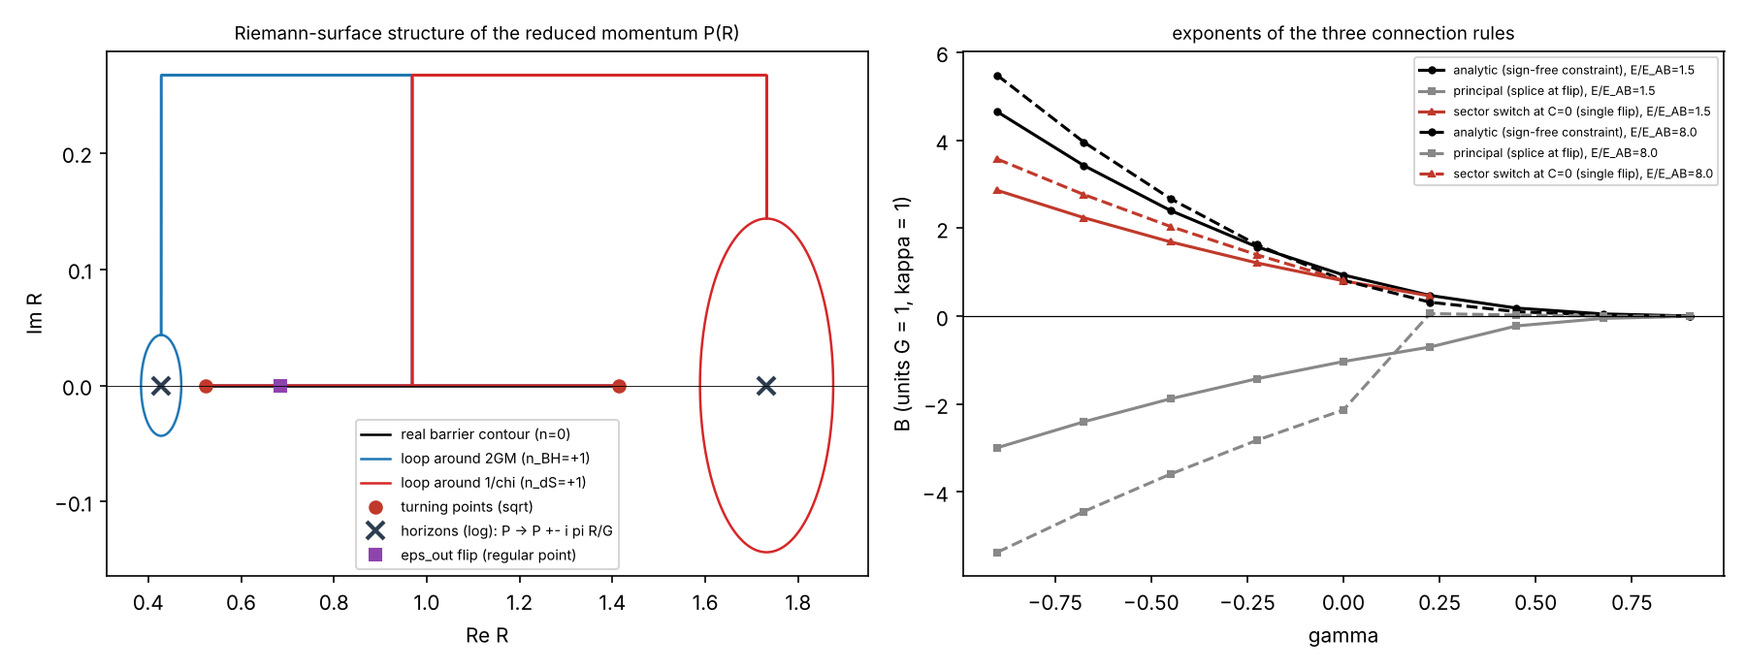
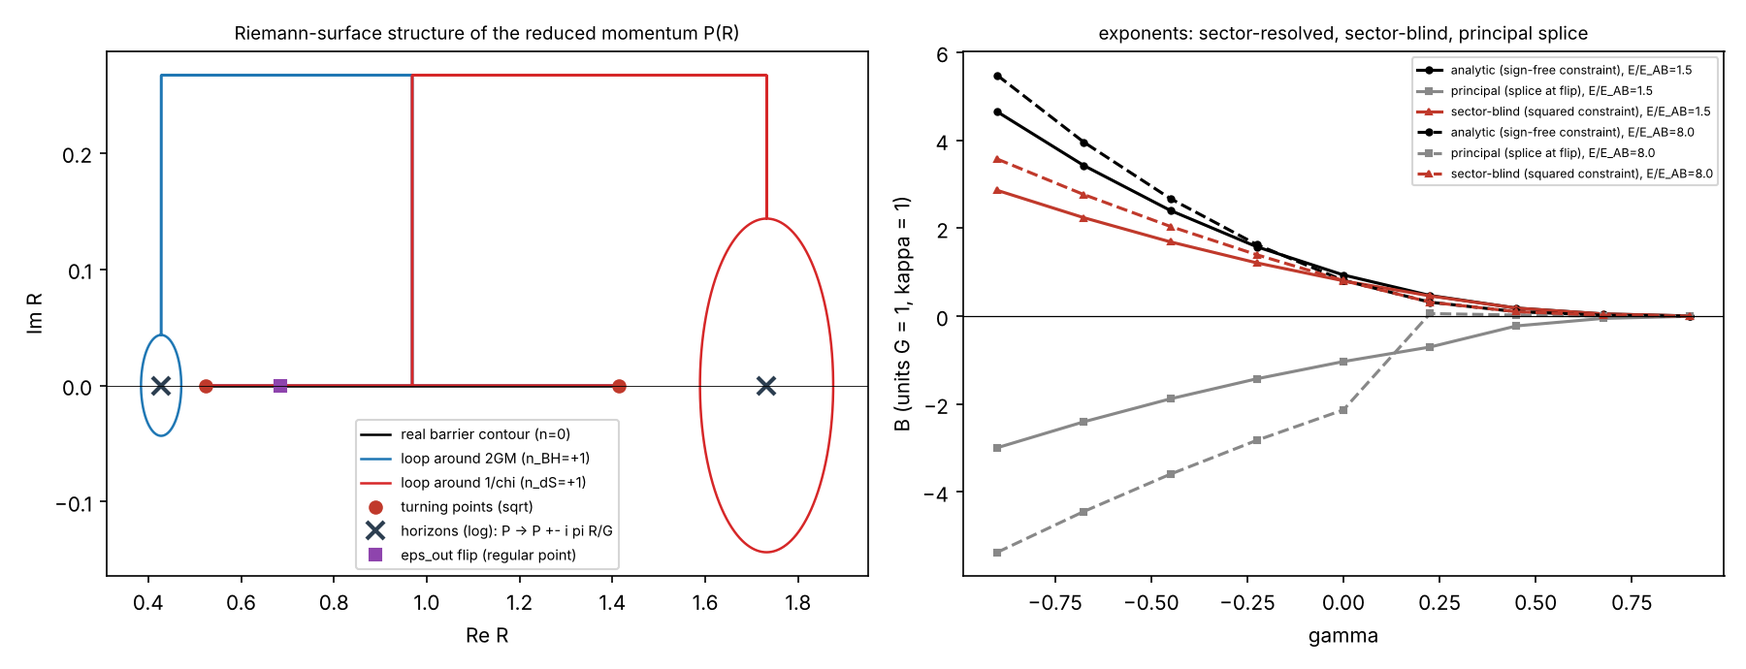
genesis Phase III: sector-blind quantization and classification
- Lemma III-9: N = f_in + f_out - kappa^2 R^2 is strictly concave, so the
  squared constraint has a coalescence point (C = 0) on the barrier iff the
  transition is single-flip
- Prop. III-8: every ordering of the squared constraint has Weber index
  nu = -1/2 at the coalescence point (Stokes multiplier sqrt 2); the
  sector-resolving product Q_-Q_+ has nu = 0. Sector-blind exponent
  B_sq = (2/G) int R arccos|C| dR
- Classification: double-flip transitions are unambiguous (B_an); single-flip
  transitions have two consistent answers (B_an vs B_sq), decided by whether
  the exterior orientation of the wall is superselected
- Weber connection coefficient checked against mpmath; 6 new tests (91)

Claude-Session: https://claude.ai/code/session_01RhEc1DaRtvQ2MeecFavkbe

Changed region(s): [[0.8089, 0.0913, 0.9644, 0.2739], [0.6222, 0.0304, 0.9022, 0.0609], [0.7778, 0.4261, 0.9644, 0.487]]

diff --git a/genesis/CODE/scripts/phase3_analysis.py b/genesis/CODE/scripts/phase3_analysis.py
@@ -65,6 +65,8 @@ for gam in np.linspace(-0.9, 0.9, 9):
         out["prescriptions"].append(dict(gamma=float(gam), E_over_EAB=fac, flip_class=C.flip_class(m),
                                          B_analytic=T.B_canonical(m), B_principal=T.B_canonical(m, "principal"),
                                          B_switch=C.B_sector_switch(m),
+                                         B_sector_blind=C.B_sector_blind(m),
+                                         n_coalescence=len(C.coalescence_points(m)),
                                          A2_over_4G=float(np.pi * m.turning_points()[-1] ** 2 / m.G)))
 pr = out["prescriptions"]
 print("prescriptions: single-flip models", sum(p["flip_class"] == "single" for p in pr),
@@ -72,6 +74,18 @@ print("prescriptions: single-flip models", sum(p["flip_class"] == "single" for p
       " B_principal<0 in", sum(p["B_principal"] < 0 for p in pr), "of", len(pr),
       " 0<B_switch<B_analytic in all single:",
       all(0 < p["B_switch"] < p["B_analytic"] for p in pr if p["flip_class"] == "single"))
+# Lemma III-9 + Prop. III-8: coalescence points and the sector-blind exponent
+single = [p for p in pr if p["flip_class"] == "single"]
+double = [p for p in pr if p["flip_class"] == "double"]
+out["sector_blind_summary"] = dict(
+    single_all_one_coalescence=all(p["n_coalescence"] == 1 for p in single),
+    double_all_no_coalescence=all(p["n_coalescence"] == 0 for p in double),
+    max_rel_Bsq_minus_Bsw_single=max(abs(p["B_sector_blind"] - p["B_switch"]) / p["B_switch"] for p in single),
+    max_rel_Bsq_minus_Ban_double=max(abs(p["B_sector_blind"] - p["B_analytic"]) / p["B_analytic"] for p in double))
+out["weber"] = [C.weber_multiplier(nu) for nu in (-1.0, -0.5, -0.25, 0.0, 1.0)]
+print("sector-blind:", out["sector_blind_summary"])
+for w in out["weber"]:
+    print(f"   Weber nu={w['nu']:+.2f}: |multiplier| measured {w['measured_abs']:.6g}, sqrt(2pi)/|Gamma(-nu)| = {w['predicted_abs']:.6g}")
 
 # 3. Lorentzian complex-time saddle: T* = dS/dM, S = int P dR along the barrier.
 #    Under the barrier P is purely imaginary, so T*_barrier = i dImS/dM and
@@ -136,13 +150,13 @@ for fac, ls in ((1.5, "-"), (8.0, "--")):
                label=f"analytic (sign-free constraint), E/E_AB={fac}")
     ax[1].plot(g, [p["B_principal"] for p in rows], color="#888888", ls=ls, marker="s", ms=3,
                label=f"principal (splice at flip), E/E_AB={fac}")
-    ax[1].plot(g, [p["B_switch"] for p in rows], color="#c0392b", ls=ls, marker="^", ms=3,
-               label=f"sector switch at C=0 (single flip), E/E_AB={fac}")
+    ax[1].plot(g, [p["B_sector_blind"] for p in rows], color="#c0392b", ls=ls, marker="^", ms=3,
+               label=f"sector-blind (squared constraint), E/E_AB={fac}")
 ax[1].axhline(0, color="k", lw=0.6)
 ax[1].set_xlabel("gamma")
 ax[1].set_ylabel("B (units G = 1, kappa = 1)")
 ax[1].legend(fontsize=6)
-ax[1].set_title("exponents of the three connection rules", fontsize=9)
+ax[1].set_title("exponents: sector-resolved, sector-blind, principal splice", fontsize=9)
 fig.tight_layout()
 fig.savefig(os.path.join(FIG, "phase3_monodromy.png"), dpi=150)
 plt.close(fig)

diff --git a/genesis/CODE/babyuniverse/contours.py b/genesis/CODE/babyuniverse/contours.py
@@ -254,3 +254,53 @@ def B_sector_switch(model: ThinWallModel) -> float:
     a = quad(lambda R: R * th(R), R1, Rq, limit=400, epsabs=1e-13, epsrel=1e-12)[0]
     b = quad(lambda R: R * (np.pi - th(R)), Rq, R2, limit=400, epsabs=1e-13, epsrel=1e-12)[0]
     return 2 * (a + b) / model.G
+
+
+# --------------------------------------- sector-blind quantization (Prop. III-8)
+def coalescence_numerator(model: ThinWallModel, R):
+    """N(R) = f_in + f_out - kappa^2 R^2 = 2 - (chi^2 + eta^2 + kappa^2) R^2 - 2GM/R,
+    strictly concave on R > 0 (Lemma III-9); C = N / (2 sqrt(f_in f_out))."""
+    R = np.asarray(R, dtype=float)
+    return 2 - (model.chi**2 + model.eta**2 + model.kappa**2) * R**2 - 2 * model.G * model.M / R
+
+
+def coalescence_points(model: ThinWallModel, n: int = 4001) -> list:
+    """Zeros of C (theta = pi/2) inside the barrier: points where the squared
+    constraint's branches theta and pi - theta coalesce."""
+    from scipy.optimize import brentq
+    R1, R2 = model.turning_points()[0], model.turning_points()[-1]
+    Rs = np.linspace(R1, R2, n)[1:-1]
+    N = coalescence_numerator(model, Rs)
+    idx = np.nonzero(np.diff(np.sign(N)) != 0)[0]
+    return [brentq(lambda r: float(coalescence_numerator(model, r)), Rs[i], Rs[i + 1], xtol=1e-15) for i in idx]
+
+
+def B_sector_blind(model: ThinWallModel) -> float:
+    """Exponent of the sector-blind (squared-constraint) quantization:
+    B_sq = (2/G) int R arccos|C| dR  (min(theta, pi - theta) on the barrier).
+    Equals B_sector_switch in the single-flip class and B_an in the double-flip class."""
+    from scipy.integrate import quad
+    R1, R2 = model.turning_points()[0], model.turning_points()[-1]
+
+    def C(R):
+        fi, fo = model.f_in(R), model.f_out(R)
+        return (fi + fo - model.kappa**2 * R**2) / (2 * np.sqrt(fi * fo))
+
+    pts = coalescence_points(model) or None
+    v = quad(lambda R: R * np.arccos(min(1.0, abs(C(R)))), R1, R2, points=pts, limit=400,
+             epsabs=1e-13, epsrel=1e-12)[0]
+    return 2 * v / model.G
+
+
+def weber_multiplier(nu: float, z: float = 30.0) -> dict:
+    """Stokes multiplier of the local normal form at a coalescence point.
+    The solution recessive on the left, D_nu(-z), contains the dominant branch
+    e^{z^2/4} z^{-nu-1} on the right with coefficient sqrt(2 pi)/Gamma(-nu)
+    (up to the phase e^{i pi nu}); it vanishes iff nu = 0, 1, 2, ...  Checked
+    against mpmath's parabolic-cylinder function at large z."""
+    import mpmath as mp
+    mp.mp.dps = 50
+    nu_m, zz = mp.mpf(nu), mp.mpf(z)
+    measured = mp.pcfd(nu_m, -zz) / (mp.e ** (zz**2 / 4) * zz ** (-nu_m - 1))
+    predicted = mp.mpf(0) if (mp.isint(nu_m) and nu_m >= 0) else mp.sqrt(2 * mp.pi) / mp.gamma(-nu_m)
+    return dict(nu=float(nu), measured_abs=float(abs(measured)), predicted_abs=float(abs(predicted)))

diff --git a/genesis/CODE/tests/test_contours.py b/genesis/CODE/tests/test_contours.py
@@ -89,3 +89,30 @@ def test_sector_switch_exponent():
         assert C.flip_class(m) == "single"
         Bq, Ban = C.B_sector_switch(m), T.B_canonical(m)
         assert 0 < Bq < Ban
+
+
+def test_coalescence_lemma_and_sector_blind_exponent():
+    """Lemma III-9: one coalescence point in the single-flip class, none in the
+    double-flip class; B_sq = B_sw (single) and B_sq = B_an (double)."""
+    for gam, fac in ((-0.5, 1.5), (0.0, 3.0)):
+        m = model_from_dimensionless(gam, fac * (2 - 2 * gam))
+        assert C.flip_class(m) == "single" and len(C.coalescence_points(m)) == 1
+        assert abs(C.B_sector_blind(m) - C.B_sector_switch(m)) < 1e-8 * C.B_sector_switch(m)
+    for gam, fac in ((0.45, 1.5), (0.9, 3.0)):
+        m = model_from_dimensionless(gam, fac * (2 - 2 * gam))
+        assert C.flip_class(m) == "double" and len(C.coalescence_points(m)) == 0
+        assert abs(C.B_sector_blind(m) - T.B_canonical(m)) < 1e-8 * T.B_canonical(m)
+
+
+def test_coalescence_numerator_concave():
+    m = model_from_dimensionless(-0.5, 4.8)
+    R = np.linspace(0.05, 3.0, 2000)
+    N = C.coalescence_numerator(m, R)
+    assert np.all(np.diff(N, 2) < 0)
+
+
+@pytest.mark.parametrize("nu,expected", [(-0.5, np.sqrt(2.0)), (-1.0, np.sqrt(2 * np.pi)), (0.0, 0.0), (1.0, 0.0)])
+def test_weber_multiplier(nu, expected):
+    w = C.weber_multiplier(nu)
+    assert abs(w["predicted_abs"] - expected) < 1e-12
+    assert abs(w["measured_abs"] - expected) < 2e-3 * max(1.0, expected)

diff --git a/genesis/PHASE_III_QUANTUM_TRANSITION.md b/genesis/PHASE_III_QUANTUM_TRANSITION.md
@@ -5,22 +5,28 @@ theorem identifying why a proposed construction fails.* Status: **both, in the r
 
 * We prove precisely **why the FGG "slicing" (principal-branch) construction fails** (Theorem III-5). It is not the WKB
   limit of any solution of its own quantum constraint. It is also negative, i.e. "probability" > 1, in 33 of 36 models.
-* We prove that **no formulation removes the FGG ambiguity; every formulation hides it in one and the same datum**
+* We prove that **no single formulation removes the FGG ambiguity by itself; every formulation hides it in one and the same datum**
   (Theorems III-2, III-4, Lemma III-6). That datum is the convention for the boost angle of a flipped normal, which is
   equivalent to choosing which sheet of the two-valued true Hamiltonian carries the daughter. It is also equivalent to
   how the Hilbert spaces of the two sectors are identified.
 * We give a **defensible construction**: complex (Sorkin) angles, one analytic quantum constraint, Lebesgue measure and
   the real-barrier contour class. Its assumptions are explicit (C1–C4) and its exponent is $B_{\rm an}$. Canonical,
   covariant-Euclidean and Lorentzian complex-saddle formulations agree on it.
-* We identify the one competitor not excluded: sector switching in the squared constraint, with exponent
-  $0<B_{\rm sw}<B_{\rm an}$ (Sec. 7). It is decided by operator ordering, which is the sharpened open problem P-Q2.
+* We construct the **sector-blind alternative** and settle it at leading order (Sec. 7). Quantizing the squared constraint, in
+  any ordering, gives a universal Stokes multiplier $\sqrt2$ at the point where $C=0$ (Weber index $\nu=-\tfrac12$). Its exponent is
+  $B_{\rm sq}=\frac2G\int R\arccos|C|\,dR$.
+* **Classification.** The barrier contains a point with $C=0$ if and only if the transition is in the single-flip class
+  (Lemma III-9, by concavity). So **in the double-flip class every consistent quantization gives $B_{\rm an}$.** The FGG ambiguity is
+  fully resolved there. In the single-flip class exactly two consistent answers remain, $B_{\rm an}$ (sector-resolved) and
+  $B_{\rm sq}<B_{\rm an}$ (sector-blind). They are separated by one physical question: **is the exterior orientation of the wall (the
+  sign of its exterior extrinsic curvature) a superselected quantum number?**
 
 The first draft of this report (earlier in this session) said the principal prescription was a "negative-tension
 amplitude" and that the ambiguity was "eliminated, not hidden". **Both statements were wrong** and are corrected here.
 FAILED_APPROACHES.md F10 records the error.
 
 Code: `CODE/babyuniverse/contours.py`; script `CODE/scripts/phase3_analysis.py`; data
-`DATA/phase3_quantum_transition.json`; figure `FIGURES/phase3_monodromy.png`; tests `CODE/tests/test_contours.py` (13).
+`DATA/phase3_quantum_transition.json`; figure `FIGURES/phase3_monodromy.png`; tests `CODE/tests/test_contours.py` (19).
 
 ---
 
@@ -182,30 +188,65 @@ whose flux is conserved. Relating the two needs an intertwiner $e^{\pm\pi(u-u_*)
 constant $u_*$. Anchoring at the daughter's turning point ($u_*=u_2$) gives $B_{\rm an}$. Anchoring at the flip ($u_*=u_f$)
 reproduces the principal value $B_{\rm an}-(A_2-A_f)/4G$. **This anchor is the FGG ambiguity in its canonical form.**
 
-## 7. Sector switching in the squared constraint (the competitor that survives)
+## 7. The sector-blind quantization: universal Stokes multiplier and the classification
 
-A sector-blind quantization uses the squared constraint $\cosh^2(GP_u)=C^2$, with shifts $\pm2ih$. It has both families
-$\cos\theta=\pm C$. Its symbol degenerates where $C=0$ ($\theta=\pi/2$), and there the branches $\theta$ and $\pi-\theta$ coalesce. In the
-single-flip class the analytic $\theta$ runs from $0$ to $\pi$ and crosses $\pi/2$ at a point $R_q$, which is a genuine turning point
-of the squared operator. A continuous connection then exists that follows $\theta$ up to $R_q$ and $\pi-\theta$ beyond it. It matches
-the real-angle momentum at both ends, with
-$$B_{\rm sw}=\frac2G\Big[\int_{R_1}^{R_q}R\,\theta\,dR+\int_{R_q}^{R_2}R\,(\pi-\theta)\,dR\Big],\qquad 0<B_{\rm sw}<B_{\rm an}\ \text{(all 24 single-flip models)}.$$
-Beyond $R_q$ the branch $\pi-\theta$ decays more slowly than $\theta$. Any non-zero Stokes multiplier at $R_q$ therefore makes $B_{\rm sw}$
-the dominant exponent.
+A **sector-blind** quantization quantizes the squared constraint
+$$\sigma_0(u,P_u)=g(u)\big[\cosh^2(GP_u)-C(u)^2\big],\qquad g=4f_{\rm in}f_{\rm out},$$
+which contains both families $\cos\theta=\pm C$ and only the shifts $\pm2i\hbar G$. It is invariant under the intertwiner
+$e^{\pi u/\hbar G}$ of Theorem III-2(c), so it does not distinguish orientation sectors. Dirac (Wheeler–DeWitt) quantization of the full
+bulk-plus-shell system plausibly leads here: the bulk Hamiltonian constraint is quadratic in the gravitational momenta, and the sign of
+the extrinsic curvature $K_{\theta\theta}=A/R$ is exactly the sign that squaring removes. This motivation is **heuristic**.
 
-> **Lemma III-7 (factorisation).** With $Q_\pm=T\mp W_+$, the ordering $Q_-Q_+$ contains $\ker Q_+$, and analytic continuation of an exact
-> $\ker Q_+$ solution stays in $\ker Q_+$ (identity theorem). So in that ordering the laboratory solution can be taken in $\ker Q_+$ and does
-> **not** switch: the exponent is $B_{\rm an}$. In other orderings ($T^2-W_+^2$ plus symmetrisations) the multiplier at $R_q$ comes from
-> $O(\hbar)$ commutator terms and is not computed here.
+Its symbol has a **double point** wherever $C=0$, at $(u_q,\,P_q=i\pi/2G)$. There the branches $\theta$ and $\pi-\theta$ coalesce.
 
-| γ | E/E_AB | class | $B_{\rm an}$ | $B_{\rm princ}$ | $B_{\rm sw}$ | $A_2/4G$ |
+> **Lemma III-9 (where coalescence happens).** $N(R)\equiv f_{\rm in}+f_{\rm out}-\kappa^2R^2=2-(\chi^2+\eta^2+\kappa^2)R^2-2GM/R$ is strictly concave on
+> $R>0$, and $C=N/2\sqrt{f_{\rm in}f_{\rm out}}$. On the barrier $C(R_1)=+1$ and $C(R_2)=\varepsilon_{\rm in}\varepsilon_{\rm out}(R_2)$. Hence:
+> **double flip** ⇒ $C>0$ on the whole barrier (no coalescence point; $\theta<\pi/2$ throughout);
+> **single flip** ⇒ exactly one coalescence point $R_q$, where $C$ changes sign with slope $c=C'(u_q)<0$.
+>
+> *Proof.* $N''=-2(\chi^2+\eta^2+\kappa^2)-4GM/R^3<0$. The set $\{N>0\}$ is an interval containing $R_1$; it contains $R_2$ iff $C(R_2)>0$. $\square$
+
+Numerically: in all 12 double-flip grid models $\theta_{\max}\le0.30\pi$, and in all 24 single-flip models there is exactly one crossing.
+
+> **Proposition III-8 (Weber index at the coalescence point; leading order).** Let $L$ be a quantization with Weyl symbol
+> $\sigma_0+\hbar\sigma_1+O(\hbar^2)$. Conjugate by $e^{-\pi u/2\hbar G}$, which shifts $P_u$ by $P_q$, and put $x=u-u_q$, $p=P_u-P_q$. Then near the
+> double point $\sigma_0=-g_q\,(G^2p^2+c^2x^2)+O(3)$, and $L\psi=0$ reduces to the Weber equation
+> $-(\hbar G)^2\psi''+c^2x^2\psi=E\psi$ with $E=\hbar\sigma_1(u_q,P_q)/g_q$, i.e.
+> $$\nu=-\tfrac12+\frac{\sigma_1(u_q,P_q)}{2G|c|\,g_q}.$$
+> Locally the analytic branch $\theta$ is the Gaussian $e^{-|c|x^2/2\hbar G}$, recessive on the left. The solution carrying the laboratory
+> state is therefore $D_\nu(-z)$, $z=x\sqrt{2|c|/\hbar G}$. To the right it contains the branch $\pi-\theta$ ($e^{+|c|x^2/2\hbar G}$) with
+> multiplier
+> $$s=\frac{\sqrt{2\pi}}{\Gamma(-\nu)}\,e^{i\pi\nu},$$
+> which vanishes iff $\nu\in\{0,1,2,\dots\}$.
+> (a) **Every ordering of the squared constraint** has $\nu=-\tfrac12$ and $|s|=\sqrt2$. "Ordering" means any operator obtained by ordering
+> the factors $a(u)$ and $\cosh^2(G\hat P_u)$ of $\sigma_0$, including division by $g$ and symmetrisations. Each such reordering, and the
+> standard-to-Weyl correction, contributes to $\sigma_1$ a multiple of $a'(u)\,\partial_P\cosh^2(GP)=G\,a'(u)\sinh(2GP)$, and
+> $\sinh(2GP_q)=\sinh(i\pi)=0$.
+> (b) The **sector-resolving** product $Q_-Q_+$, with $Q_\pm=T/2\mp C$, has $\sigma_1(u_q,P_q)=-cG\,g_q$ (from
+> $[T,u]=-2i\hbar G\sinh GP_u$ and $\sinh GP_q=i$). Since $c<0$, $\nu=0$: **no switching**, consistent with $\ker Q_+\subset\ker Q_-Q_+$ (identity
+> theorem). The other product $Q_+Q_-$ has $\nu=-1$ and $|s|=\sqrt{2\pi}$.
+>
+> *Status.* (a) and (b) are exact statements about the $O(\hbar)$ symbol. The reduction to the Weber equation is the standard normal form
+> at a non-degenerate double point. Cubic and higher terms change the multiplier only at relative order $\hbar^{1/2}$ and higher. The
+> connection coefficient $\sqrt{2\pi}/\Gamma(-\nu)$ is checked against mpmath's parabolic-cylinder function to $4\times10^{-4}$
+> ($z=30$, finite-$z$ correction) for $\nu=-1,-\tfrac12,-\tfrac14,0,1$ (`contours.weber_multiplier`).
+
+**Corollary (sector-blind exponent).** Beyond $R_q$ the branch $\pi-\theta$ decays more slowly than $\theta$. With $|s|=\sqrt2\ne0$ it dominates,
+and the transmitted amplitude follows $\min(\theta,\pi-\theta)=\arccos|C|$:
+$$B_{\rm sq}=\frac2G\int_{R_1}^{R_2}R\,\arccos|C|\,dR\ \le\ B_{\rm an}=\frac2G\int_{R_1}^{R_2}R\,\arccos C\,dR,$$
+with probability prefactor enhanced by $|s|^2=2$. Equality holds iff there is no coalescence point, i.e. exactly in the double-flip class
+(Lemma III-9). In the single-flip class $B_{\rm sq}=B_{\rm sw}$, where $B_{\rm sw}$ follows $\theta$ to $R_q$ and $\pi-\theta$ beyond. Its endpoint momentum is the
+real-angle one. Numerically, $|B_{\rm sq}-B_{\rm sw}|/B_{\rm sw}\le5\times10^{-15}$ (single flip), $|B_{\rm sq}-B_{\rm an}|/B_{\rm an}\le4\times10^{-15}$ (double flip), and
+$0<B_{\rm sq}<B_{\rm an}$ in all 24 single-flip models.
+
+| γ | E/E_AB | class | $B_{\rm an}$ | $B_{\rm princ}$ | $B_{\rm sq}$ | $A_2/4G$ |
 |---|---|---|---|---|---|---|
 | −0.90 | 1.5 | single | 4.6467 | −2.9917 | 2.8602 | 9.6281 |
 | −0.45 | 1.5 | single | 2.4034 | −1.8803 | 1.6891 | 5.8021 |
 | 0.00 | 1.5 | single | 0.9357 | −1.0324 | 0.8032 | 3.0153 |
 | 0.00 | 8.0 | single | 0.8128 | −2.1317 | 0.8083 | 3.1408 |
-| 0.45 | 1.5 | double | 0.1828 | −0.2221 | — | 1.1749 |
-| 0.68 | 8.0 | double | 0.0206 | +0.0015 | — | 0.3659 |
+| 0.45 | 1.5 | double | 0.1828 | −0.2221 | 0.1828 | 1.1749 |
+| 0.68 | 8.0 | double | 0.0206 | +0.0015 | 0.0206 | 0.3659 |
 
 (units $G=\kappa=1$; full grid in the data file.)
 
@@ -227,7 +268,8 @@ ${\rm Im}\,T^*=\tfrac12(-\Delta t^W_E+\partial_M\mathcal A/4G)$, verified to $5\
 
 ## 9. Verdict: does any resolution eliminate the FGG ambiguity, or merely hide it?
 
-**It is hidden, never eliminated. All formulations hide it in the same place, and that place is now explicit:**
+**No formulation eliminates it by its own rules. All formulations hide it in the same place, and that place is now explicit.**
+The classification below then shows that this datum matters only in the single-flip class.
 
 | formulation | where the FGG datum sits |
 |---|---|
@@ -235,12 +277,20 @@ ${\rm Im}\,T^*=\tfrac12(-\Delta t^W_E+\partial_M\mathcal A/4G)$, verified to $5\
 | canonical, shift constraint | which analytic constraint ($W_+$ vs sign-dressed); the intertwiner anchor $u_*$ (III-2, III-6) |
 | covariant Euclidean | the action assigned to folds of the pseudomanifold (joint angle $\pi$ or $0$) (III-3) |
 | Lorentzian | the boost angle of a flipped normal ($i\pi$ or $0$), i.e. Sorkin's convention (III-2) |
-| sector-blind | operator ordering of the squared constraint (Sec. 7) |
+| sector-blind vs sector-resolved | whether the constraint distinguishes orientation sectors; not the ordering within the squared form (Prop. III-8) |
 
 **Failure theorem.** The principal (FGG slicing) prescription solves no analytic quantum constraint (III-5). It is a splice at a
 regular point and gives $e^{-B}>1$ in most of parameter space.
 
-**Defensible construction (adopted).**
+**Classification theorem (leading order, given C1, C3, C4).** Two consistent quantizations are constructed.
+* **Double-flip class:** both give $B_{\rm an}$. Both conventions for flipped normals agree at the endpoints there. The FGG ambiguity is
+  **eliminated** in this class: the only dissenting prescription is the principal splice, excluded by III-5.
+* **Single-flip class:** sector-resolved gives $B_{\rm an}$, sector-blind gives $B_{\rm sq}<B_{\rm an}$ (Prop. III-8, Lemma III-9). The residual ambiguity is the
+  single physical question whether the exterior orientation of the wall is superselected.
+
+A third candidate, the single-sheet pseudo-differential quantization of $H_-$ (P-Q7), is not analysed.
+
+**Defensible construction (sector-resolved, adopted as primary).**
 * (C1) The reduced theory, with constraints solved classically and the boundary clock $t_\infty$, is the leading-order quantum theory.
 * (C2) Boost angles are Sorkin's complex angles, equivalently Euclidean angles under continuation. The quantum constraint is then the single
   analytic equation $T\psi=W_+\psi$ on the static domain.
@@ -253,16 +303,24 @@ $$P_{\rm daughter}=e^{-B_{\rm an}/\hbar}\,(1+O(\hbar))\quad\text{(daughter norma
 $B_{\rm an}$ is positive in every regime (Lemma P). It agrees with the covariant pseudomanifold action with joint terms and with the Lorentzian
 complex saddle (Sec. 8). As $M\to0$ it tends to the closed form T1, which is the CdL exponent when the false vacuum is the larger cap (T1/T5).
 
-**What would overturn it.** A sector-blind quantization whose ordering gives a non-zero Stokes multiplier at $R_q$: then
-$B_{\rm sw}<B_{\rm an}$ dominates (Sec. 7). Or a full-gravity inner product that anchors the daughter elsewhere (Sec. 6). Neither (C2) nor
-(C3) is derived here from a gravitational path integral.
+**The sector-blind alternative (equally consistent).** Replace (C2) by the squared constraint. Then
+$P_{\rm daughter}\simeq2\,e^{-B_{\rm sq}/\hbar}$ (single flip) or $e^{-B_{\rm an}/\hbar}$ (double flip).
+
+**What decides between them.** Whether the full theory superselects the exterior orientation (Sorkin angles and the covariant joint terms
+favour resolving it; Wheeler–DeWitt quantization of a constraint quadratic in the momenta favours blindness). Equivalently, whether
+the inner product of the full theory anchors the daughter as in Sec. 6. Neither (C2) nor the squared alternative is derived here from a
+gravitational path integral.
+
+**For observational bounds (Phase VI)** we use the smaller exponent, $B_{\rm sq}=\min(B_{\rm an},B_{\rm sq})$. That is the optimistic choice, so any
+inaccessibility conclusion holds under either quantization.
 
 ## 10. Open problems sharpened by Phase III
 
-* **P-Q2 (sharpened).** At $M=0$ with $\kappa>\chi$ the squared constraint is polynomial in $u$, so the momentum representation turns it into an ODE
-  ($L^4\hbar^2\phi''+2i\hbar(L^2-\chi^2\mathcal C)\phi'+(\mathcal C-1-2i\hbar\chi^2\mathcal C')\phi=0$, $\mathcal C=\cosh^2Gk$). The analytic $\theta$ runs from $0$ to $\pi$ there,
-  so the coalescence point $R_q$ is present. **Compute the Stokes multiplier at $R_q$ for each ordering.** This decides between
-  $B_{\rm an}$ and $B_{\rm sw}$.
+* **P-Q2 (reduced to a global check).** Prop. III-8 settles the multiplier at leading local order. Remaining: confirm it with an exact
+  solution of the $M=0$, $\kappa>\chi$ squared constraint (a polynomial in $u$, hence an ODE in the momentum representation:
+  $L^4\hbar^2\phi''+2i\hbar(L^2-\chi^2\mathcal C)\phi'+(\mathcal C-1-2i\hbar\chi^2\mathcal C')\phi=0$, $\mathcal C=\cosh^2Gk$), and compute the prefactors.
+* **P-Q9.** Decide superselection of the exterior orientation in a full (field-theoretic or Wheeler–DeWitt) treatment of the wall. This is
+  the one physical question left between $B_{\rm an}$ and $B_{\rm sq}$ in the single-flip class.
 * **P-Q7.** A pseudo-differential quantization of the single sheet $H_-$ in the real-angle convention. Its tunnelling amplitude may be
   governed by the branch locus rather than by a saddle, as with eigenfunction decay of relativistic Schrödinger operators
   (Carmona–Masters–Simon 1990, J. Funct. Anal. 91, 117; used here only as an analogy).

diff --git a/genesis/RESULTS.md b/genesis/RESULTS.md
@@ -49,7 +49,8 @@ Only results that passed the checks in VERIFICATION.md are listed. Labels: **The
 | R20 | **III-4 branch point = flip = fold**: the true Hamiltonian is two-sheeted. The barrier trajectory touches its branch locus tangentially, exactly at the exterior flip radius, where the Euclidean wall folds in Killing time. Sector-diagonal true-Hamiltonian quantizations give zero transition amplitude | Theorem + numerics ($10^{-15}$) |
 | R21 | **III-5 failure of the FGG principal construction**: the sign-dressed shift constraint has no non-zero analytic solution across a flip radius; $B_{\rm princ}<0$ in 33/36 models | Theorem + numerics |
 | R22 | **III-6 no conserved current**: Casoratians of the area-shift constraint are $i\hbar G$-periodic; symmetric measures are functions of $e^{A/4\hbar G}$; Lebesgue is unique below that growth | Lemma |
-| R23 | **Verdict**: the FGG ambiguity is hidden, never eliminated. All formulations place it in one datum (flipped-normal angle ⇔ sheet of $H$ ⇔ sector normalisation ⇔ fold action). Defensible construction under (C1)–(C4) gives $e^{-B_{\rm an}/\hbar}$. Open competitor: $B_{\rm sw}\in(0,B_{\rm an})$ in sector-blind orderings | Theorem-level classification |
+| R23 | **Verdict**: no formulation removes the FGG ambiguity by its own rules; all place it in one datum (flipped-normal angle ⇔ sheet of $H$ ⇔ sector normalisation ⇔ fold action). The FGG principal splice fails (R21) | Theorem-level classification |
+| R25 | **Lemma III-9 + Prop. III-8 (sector-blind quantization)**: $N=f_{\rm in}+f_{\rm out}-\kappa^2R^2$ is strictly concave, so $C=0$ occurs on the barrier iff the transition is single-flip. Every ordering of the squared constraint has Weber index $\nu=-\tfrac12$ there (Stokes multiplier $\sqrt2$), so its exponent is $B_{\rm sq}=\frac2G\int R\arccos\lvert C\rvert dR$. Hence **double flip: all consistent quantizations give $B_{\rm an}$ (ambiguity eliminated); single flip: $B_{\rm an}$ (orientation superselected) vs $B_{\rm sq}<B_{\rm an}$ (not)** | Theorem (lemma) + leading-order proposition + numerics ($10^{-15}$) |
 | R24 | **Covariant action rule** for the laboratory pseudomanifold (GHY at ∞, background, bolt, folds as Hayward joints of angle π) equals $B_{\rm an}$; Lorentzian complex saddle ${\rm Im}\,T^*$ | Proposition, verified to $10^{-9}$ |
 
 ## Statement for a general audience

diff --git a/genesis/README.md b/genesis/README.md
@@ -49,14 +49,15 @@ This directory is self-contained and independent of the Q-CHAS dashboard in the 
 | [VERIFICATION.md](VERIFICATION.md) | verification dossier and proof gaps |
 | [OPEN_PROBLEMS.md](OPEN_PROBLEMS.md) | open problems by phase |
 
-## Phase III in four lines
+## Phase III in five lines
 
 1. The two FGG prescriptions are two conventions for the boost angle of a flipped wall normal: complex (Sorkin, $i\pi$) or real.
 2. The true Hamiltonian is two-sheeted. The tunnelling trajectory touches its branch locus exactly where the Euclidean wall
    folds in Killing time.
 3. The FGG slicing (principal) prescription solves no analytic quantum constraint, and $B<0$ in 33/36 models.
-4. The complex-angle construction gives $e^{-B_{\rm an}/\hbar}$ under explicit assumptions. The ambiguity is relocated to the
-   normalisation of the daughter sector, not eliminated. A sector-switching exponent $B_{\rm sw}<B_{\rm an}$ remains open (ordering).
+4. **Double-flip transitions:** every consistent quantization gives the same exponent $B_{\rm an}$, so the ambiguity is eliminated there.
+5. **Single-flip transitions:** two consistent answers remain, $B_{\rm an}$ if the wall's exterior orientation is superselected and
+   $B_{\rm sq}=\frac2G\int R\arccos|C|\,dR<B_{\rm an}$ if not. The universal Stokes multiplier is $\sqrt2$.
 
 ## Code, data, figures
 
@@ -73,7 +74,7 @@ Reproduce (Python ≥ 3.10):
 ```bash
 pip install -r genesis/CODE/requirements.txt
 cd genesis/CODE/scripts && python run_all.py      # regenerates DATA/ and FIGURES/ (Stage One + Phases II-III)
-cd .. && python -m pytest tests -q                # 85 tests
+cd .. && python -m pytest tests -q                # 91 tests
 ```
 
 Units: $G=c=\hbar=1$ unless stated; signature $(-,+,+,+)$.

diff --git a/genesis/VERIFICATION.md b/genesis/VERIFICATION.md
@@ -72,6 +72,8 @@ Verification types: **S** symbolic (sympy, exact), **A** analytic proof (by hand
 | V-Q5 | Lorentzian saddle | finite-difference ${\rm Im}\,T^*$ vs Euclidean pieces | $5\times10^{-6}$ |
 | V-Q6 | covariant action rule | Smarr pieces + bolt/fold terms | $\le1.2\times10^{-9}$ |
 | V-Q7 | competitor exponents | $B_{\rm princ}$, $B_{\rm sw}$ on a 9×4 grid | $B_{\rm princ}<0$ in 33/36; $0<B_{\rm sw}<B_{\rm an}$ in 24/24 single-flip models |
+| V-Q8 | coalescence lemma and sector-blind exponent | zeros of $N$ on the barrier; $B_{\rm sq}$ vs $B_{\rm sw}$, $B_{\rm an}$ | one zero in 24/24 single-flip, none in 12/12 double-flip; $B_{\rm sq}=B_{\rm sw}$ resp. $B_{\rm an}$ to $5\times10^{-15}$ |
+| V-Q9 | Weber connection coefficient | mpmath `pcfd` at $z=30$ vs $\sqrt{2\pi}/\Gamma(-\nu)$ | $\le4\times10^{-4}$ (finite-$z$), exact zeros at $\nu=0,1$ |
 
 Analytic proofs (III-1, III-2, III-4, III-5, III-6, III-7) are in PHASE_III_QUANTUM_TRANSITION.md. Tests: `tests/test_contours.py`.
 
@@ -86,4 +88,5 @@ Analytic proofs (III-1, III-2, III-4, III-5, III-6, III-7) are in PHASE_III_QUAN
 6. All statements are leading-order WKB; prefactors are not computed.
 7. Phase III: assumptions (C2) complex angles and (C3) Lebesgue measure are motivated (covariance, analyticity from laboratory data,
    growth bound) but not derived from a gravitational path integral. The Stokes multiplier at the coalescence point $R_q$ of the
-   squared constraint is not computed (P-Q2).
+   squared constraint is derived at leading local order (Prop. III-8); an exact global confirmation is open (P-Q2). Superselection of the
+   exterior orientation (P-Q9) is open.

diff --git a/genesis/OPEN_PROBLEMS.md b/genesis/OPEN_PROBLEMS.md
@@ -13,9 +13,11 @@ Grouped by the phase that should attack them. Each item has a precise statement 
 
 ## Phase III — the quantum transition
 
-* **P-Q2 (sharpened in Phase III).** Solve the $M=0$, $\kappa>\chi$ squared constraint exactly (momentum-representation ODE) and
-  compute the Stokes multiplier at the coalescence point $R_q$ ($C=0$) for each operator ordering. Zero multiplier gives $B_{\rm an}$;
-  a non-zero one makes $B_{\rm sw}<B_{\rm an}$ dominant (PHASE_III Sec. 7).
+* **P-Q2 (reduced to a global check).** The Stokes multiplier at the coalescence point is $\sqrt2$ for every ordering of the squared
+  constraint, at leading local order (PHASE_III Prop. III-8). Confirm it with an exact solution of the $M=0$, $\kappa>\chi$ squared constraint
+  (momentum-representation ODE), and compute prefactors.
+* **P-Q9.** Is the exterior orientation of the wall superselected in a full theory? This decides between $B_{\rm an}$ and $B_{\rm sq}$ in the
+  single-flip class (the double-flip class is unambiguous).
 * **P-Q7.** Pseudo-differential quantization of the single sheet $H_-$ (real-angle convention): is the tunnelling amplitude governed by
   the branch locus, as with relativistic Schrödinger operators?
 * **P-Q8.** Derive the complex-angle convention (C2) and the Lebesgue measure (C3) from a covariant inner product
